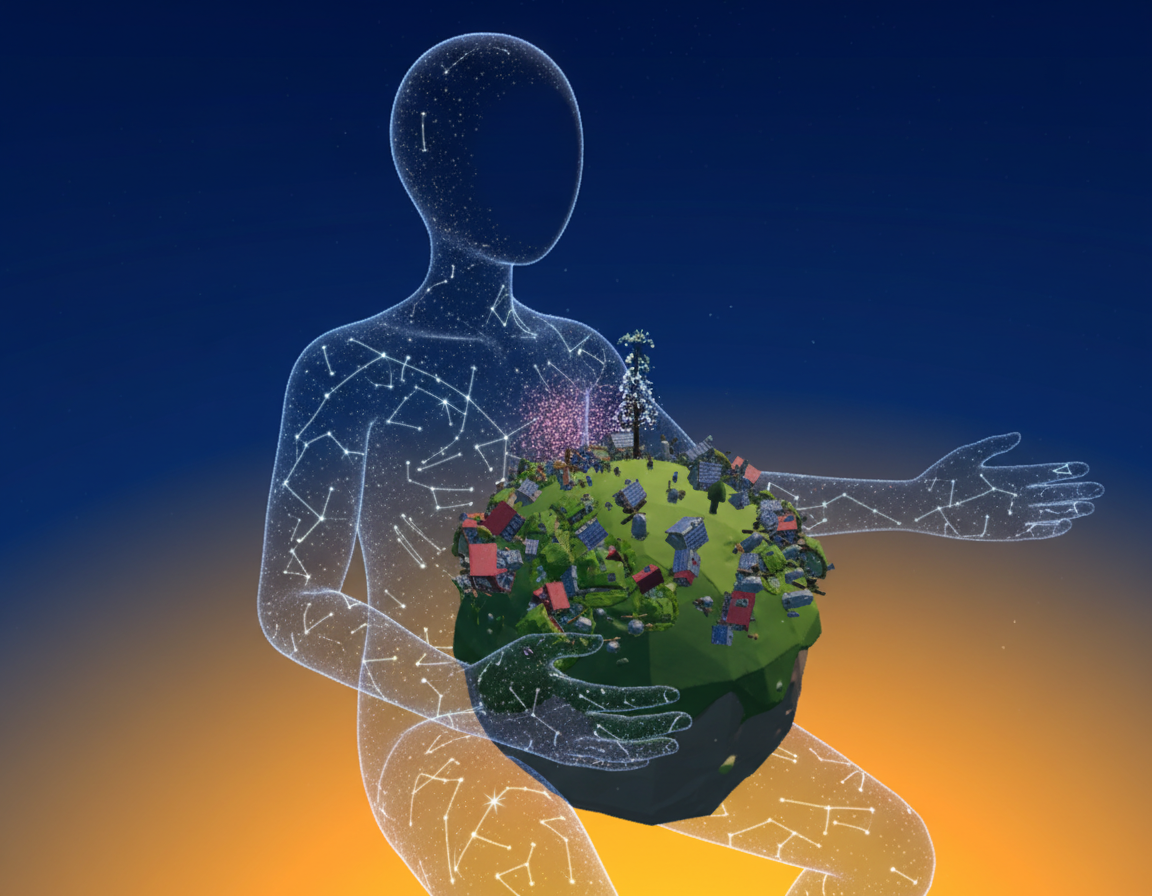
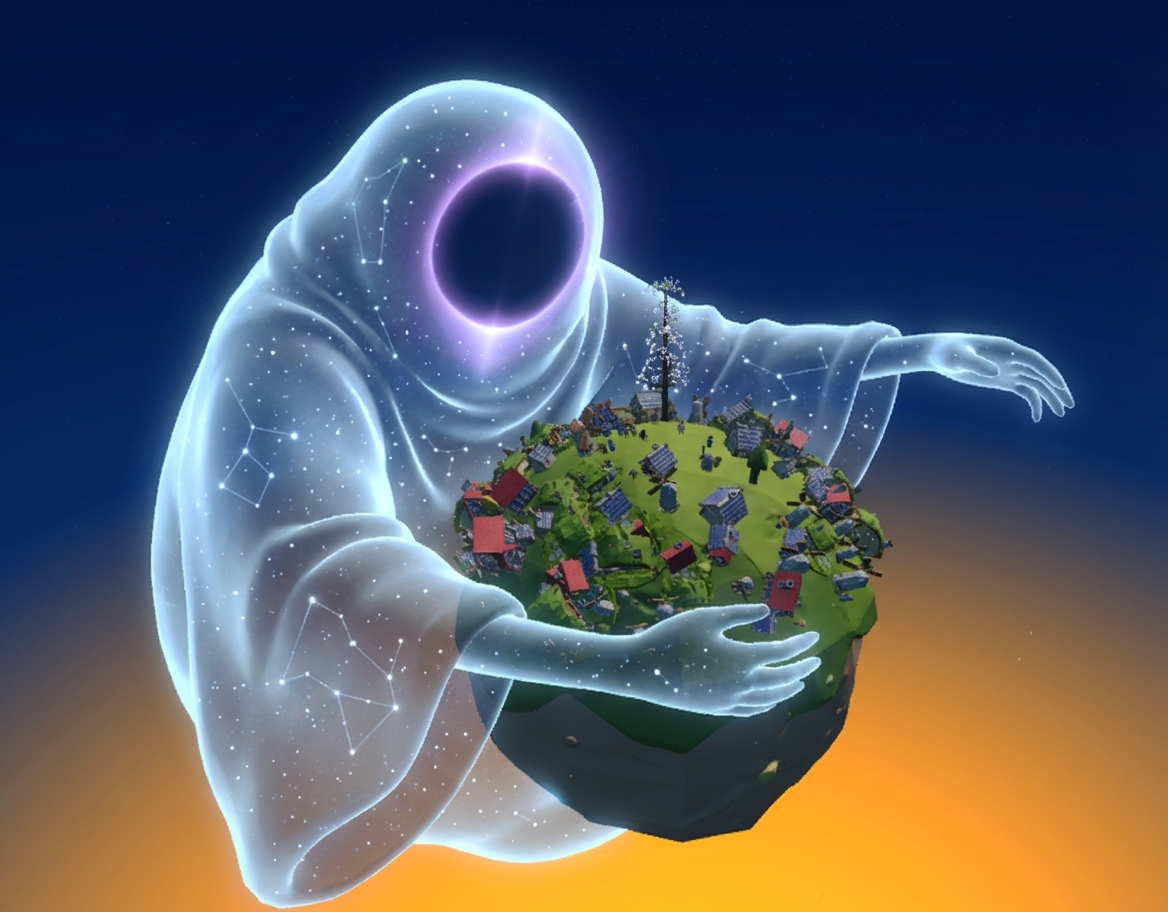
update

diff --git a/native-app/Sources/WordGalaxy/Views/TreeWebView.swift b/native-app/Sources/WordGalaxy/Views/TreeWebView.swift
@@ -151,17 +151,9 @@ final class TreeWebViewStore: NSObject, ObservableObject, WKScriptMessageHandler
             let deltaY = event.scrollingDeltaY
             self.scrollLogCount += 1
             if self.scrollLogCount <= 10 || self.scrollLogCount % 100 == 0 {
-                scrollLog("SCROLL #\(self.scrollLogCount) deltaY=\(deltaY) — consumed, dispatching synthetic")
+                scrollLog("SCROLL #\(self.scrollLogCount) deltaY=\(deltaY) — calling applyZoom")
             }
-            webView.evaluateJavaScript("""
-                (function(){
-                    var c = document.querySelector('canvas');
-                    if(c) c.dispatchEvent(new WheelEvent('wheel', {
-                        deltaY: \(-deltaY), deltaMode: 0,
-                        bubbles: true, cancelable: true
-                    }));
-                })();
-            """, completionHandler: nil)
+            webView.evaluateJavaScript("window.applyZoom(\(deltaY))", completionHandler: nil)
             return nil
         }
 
@@ -173,15 +165,7 @@ final class TreeWebViewStore: NSObject, ObservableObject, WKScriptMessageHandler
 
             let delta = event.magnification * 200
             scrollLog("PINCH delta=\(delta)")
-            webView.evaluateJavaScript("""
-                (function(){
-                    var c = document.querySelector('canvas');
-                    if(c) c.dispatchEvent(new WheelEvent('wheel', {
-                        deltaY: \(-delta), deltaMode: 0,
-                        bubbles: true, cancelable: true
-                    }));
-                })();
-            """, completionHandler: nil)
+            webView.evaluateJavaScript("window.applyZoom(\(delta))", completionHandler: nil)
             return nil
         }
     }

diff --git a/native-app/Sources/WordGalaxy/Web/main.js b/native-app/Sources/WordGalaxy/Web/main.js
@@ -42,17 +42,16 @@ controls.maxDistance = Infinity;
 controls.maxPolarAngle = Math.PI;
 controls.zoomSpeed = 1.2;
 
-// Log zoom behavior
-let wheelCount = 0;
-let lastDistLog = 0;
-renderer.domElement.addEventListener('wheel', function(e) {
-    wheelCount++;
+// Direct zoom function called from Swift — bypasses synthetic events entirely
+// Uses multiplicative scaling so zoom feels consistent at any distance
+window.applyZoom = function(deltaY) {
+    const dir = camera.position.clone().sub(controls.target).normalize();
     const dist = camera.position.distanceTo(controls.target);
-    // Log distance every 20 events to track if zoom is actually changing
-    if (wheelCount <= 5 || wheelCount % 20 === 0) {
-        console.log('[wheel] #' + wheelCount + ' dY=' + e.deltaY.toFixed(1) + ' dist=' + dist.toFixed(1) + ' trusted=' + e.isTrusted);
-    }
-});
+    const factor = Math.pow(0.998, deltaY); // multiplicative: works at any distance
+    const newDist = Math.max(controls.minDistance, Math.min(500, dist * factor));
+    camera.position.copy(controls.target).addScaledVector(dir, newDist);
+    controls.update();
+};
 
 // ── Sky ──
 const skyGeo = new THREE.SphereGeometry(150, 32, 16);